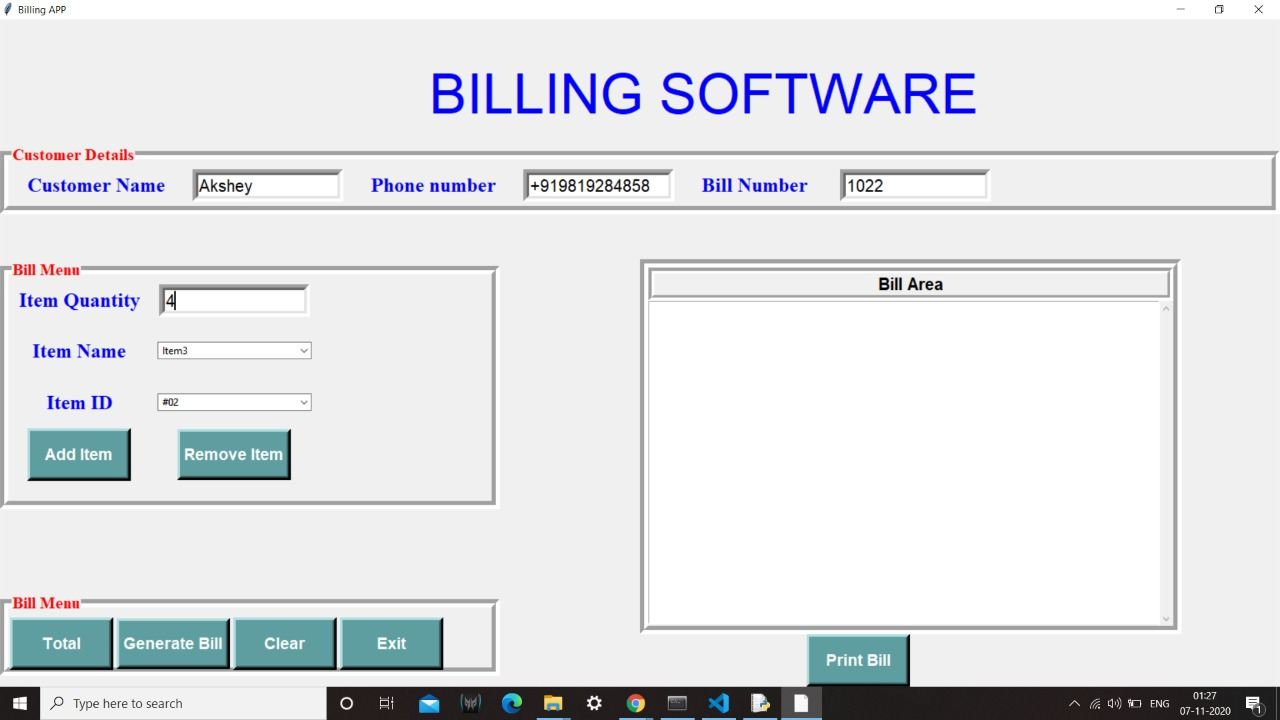
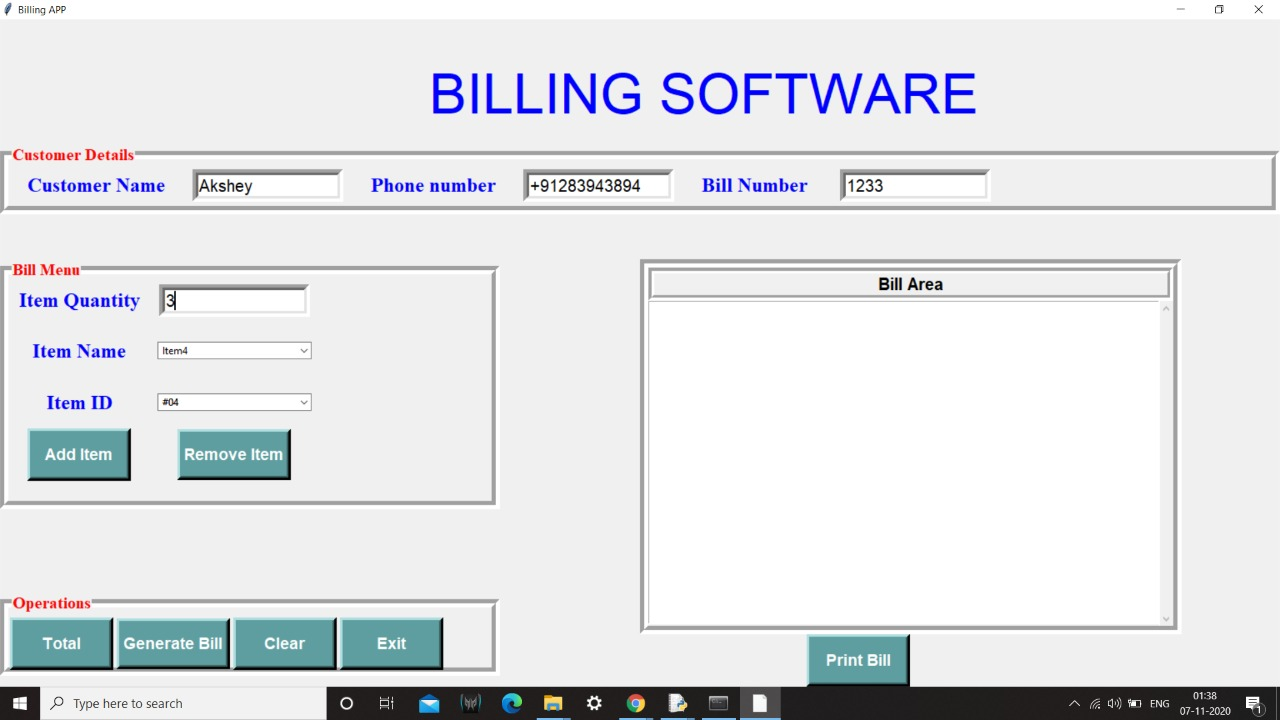
pushed

diff --git a/billing_ui.py b/billing_ui.py
@@ -94,7 +94,7 @@ remove_item=Button(F6,text="Remove Item",command=remove_item,bg="cadetblue",fg="
 
 #This will create another subframe in the page to view the various buttons like Total,Generate Bill, Exit,Clear
 
-F7=LabelFrame(window,bd=10,relief=GROOVE,text="Bill Menu",font=("times new roman",15,"bold"),fg="red")
+F7=LabelFrame(window,bd=10,relief=GROOVE,text="Operations",font=("times new roman",15,"bold"),fg="red")
 F7.place(x=0,y=window.winfo_screenheight()/3+400,height=100,width=600)
 
 Total_btn=Button(F7,command=total,text="Total",bg="cadetblue",fg="white",bd=5,pady=10, width=9, font=("arial 14 bold")).grid(row=0,column=0,padx=2,pady=5)
